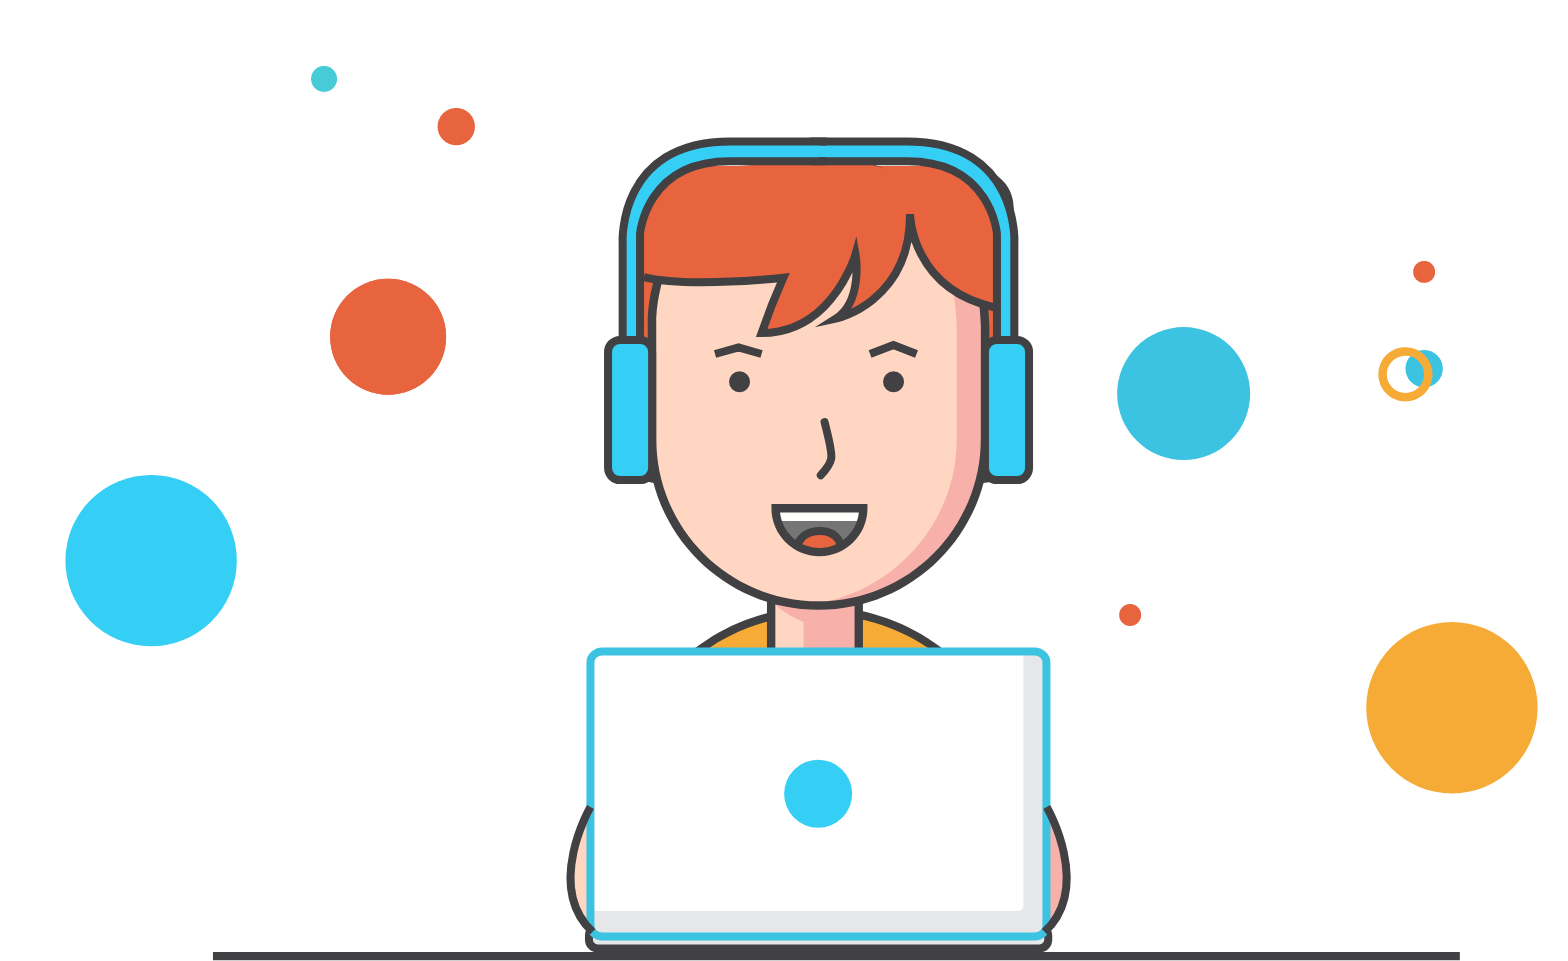
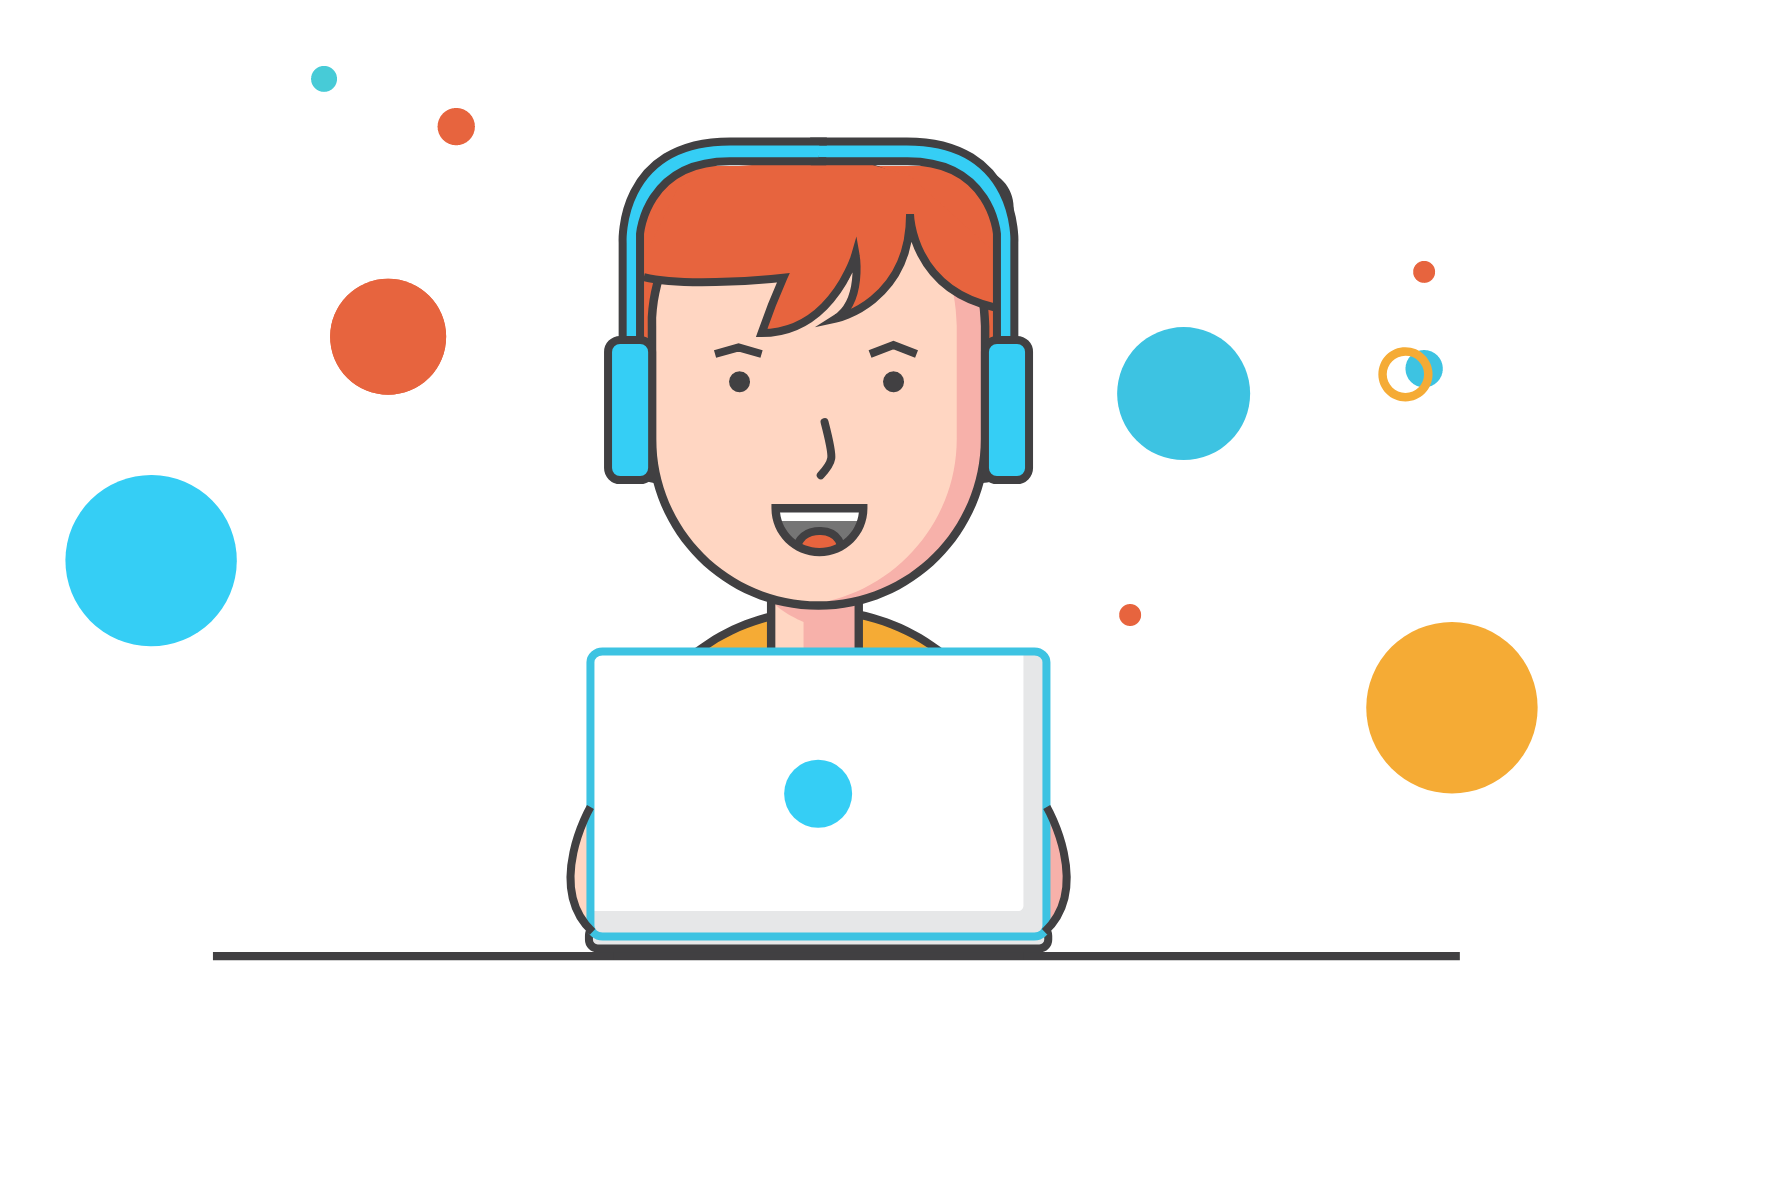
images chnaged and added

diff --git a/index.html b/index.html
@@ -113,7 +113,7 @@
 
                     <div class="col-lg-5 col-md-12 col-12">
                         <div class="about-image svg">
-                            <img src="images/undraw/undraw_software_engineer_lvl5.svg" class="img-fluid" alt="svg image">
+                            <img src="images/undraw/frontPage.svg" class="img-fluid" alt="svg image">
                         </div>
                     </div>
                 </div>
@@ -128,9 +128,21 @@
             <div class="container">
                 <div class="row">
                     <div class="col-lg-6 mr-lg-6 col-12">
-                        <div class="about-image svg">
+                        <div class="about-image svg" >
                             <img src="images/undraw/ab-img.png" class="img-fluid" alt="svg image">
                         </div>
+                        <!-- <div class="contact-info d-flex justify-content-between align-items-center py-4 px-lg-5">
+                            <div class="contact-info-item">
+                                <h3 class="mb-3" style="color: #ffc200">Parth H Desai</h3>
+                                <p class="footer-text mb-0">+91 815 488 1760</p>
+                                <p><a href="mailto:P142desai@gmail.com">P142desai@gmail.com</a></p>
+                            </div>
+                            <ul class="social-links">
+                               <li><a href="https://www.linkedin.com/in/parth-desai-b692ba1a3/" class="uil fa fa-linkedin" data-toggle="tooltip" data-placement="left" title="Linkedin"></a></li>
+                               <li><a href="https://www.facebook.com/profile.php?id=100008360353155" class="uil fa fa-facebook-square" data-toggle="tooltip" data-placement="left" title="Facebook"></a></li>
+                               <li><a href="https://github.com/desaip24" class="uil fa fa-github" data-toggle="tooltip" data-placement="left" title="Github"></a></li>
+                           </ul>
+                        </div> -->
                     </div>
                     <div class="col-lg-6 col-12">
                         <div class="about-me-inner">
@@ -197,6 +209,7 @@
                             </div>
                         </div>
                         
+                        
                     </div>
                 </div>
                 <div class="col-lg-6 mr-lg-6 col-12">
@@ -231,7 +244,6 @@
                                 </ul>
                             </div>
                         </div>    
-
                         <p class="card-text" style="text-align: right;"><i><b>and counting...</b></i></p>
                     </div>
                 </div>                        
@@ -362,10 +374,10 @@
                 <div class="row">
 
                     <div class="col-lg-5 mr-lg-5 col-12">
-                        <div class="google-map w-100">
-                            <iframe src="https://www.google.com/maps/embed?pb=!1m18!1m12!1m3!1d3719.114838677846!2d72.81214311488674!3d21.22729428589123!2m3!1f0!2f0!3f0!3m2!1i1024!2i768!4f13.1!3m3!1m2!1s0x3be04ea49eb92a05%3A0xa43f839409bbaf41!2sArchana%20Society!5e0!3m2!1sen!2sin!4v1582397743107!5m2!1sen!2sin" width="400" height="300" frameborder="0" style="border:0" allowfullscreen></iframe>
+                        <div align="center"class="about-image svg">
+                            <img src="images/undraw/work-together.png" class="img-fluid" alt="svg image">
                         </div>
-                        <div class="contact-info d-flex justify-content-between align-items-center py-4 px-lg-5">
+                        <!-- <div class="contact-info d-flex justify-content-between align-items-center py-4 px-lg-5">
                             <div class="contact-info-item">
                                 <h3 class="mb-3" style="color: #ffc200">Parth H Desai</h3>
                                 <p class="footer-text mb-0">+91 815 488 1760</p>
@@ -376,7 +388,7 @@
                                <li><a href="https://www.facebook.com/profile.php?id=100008360353155" class="uil fa fa-facebook-square" data-toggle="tooltip" data-placement="left" title="Facebook"></a></li>
                                <li><a href="https://github.com/desaip24" class="uil fa fa-github" data-toggle="tooltip" data-placement="left" title="Github"></a></li>
                            </ul>
-                        </div>
+                        </div> -->
                     </div>
                     <div class="col-lg-6 col-12">
                         <div class="contact-form">

diff --git a/css/style.css b/css/style.css
@@ -303,7 +303,7 @@ a, a:hover {
 
 .socialbtns .fa:hover {
   border-radius: 7px;
-  background-color: #5b5b5b;
+  background-color: #474559;
   color:#ffc200;
   -moz-border-radius: 7px;
   -webkit-border-radius: 7px;
@@ -426,6 +426,7 @@ a, a:hover {
   width: 100%;
 }
 .contact{
+  margin-top: 40px; 
   padding-bottom: 30px;
 }
 
